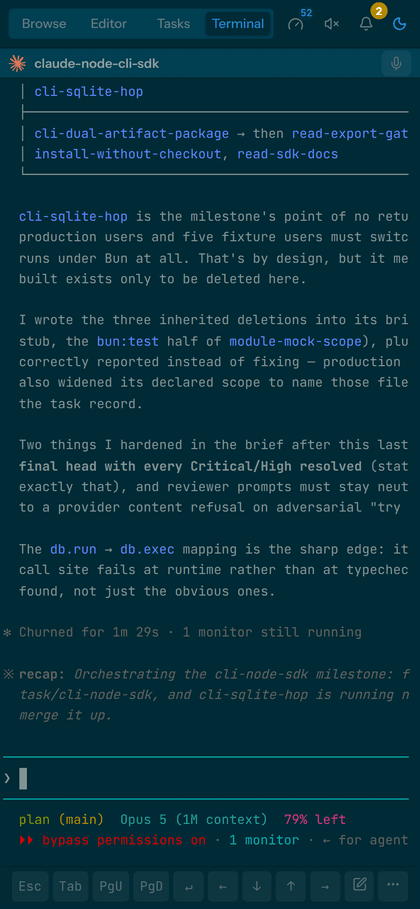
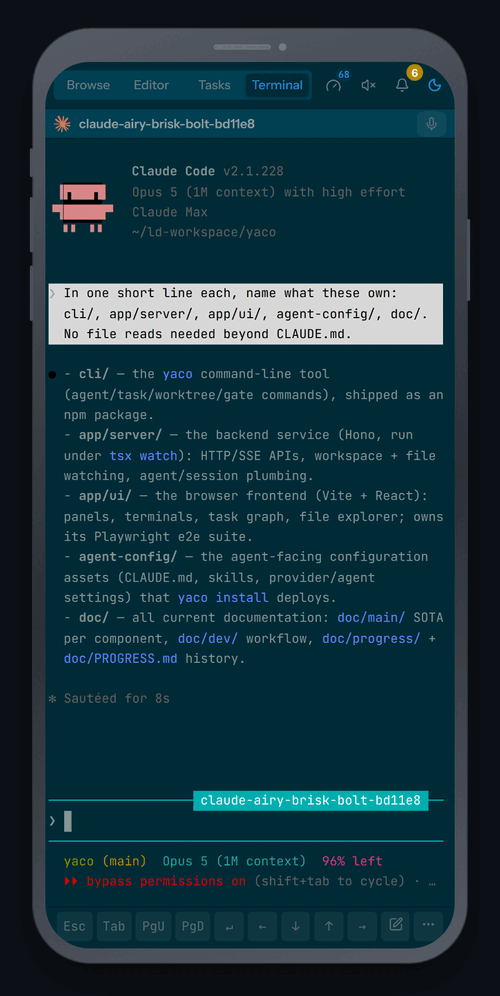
docs(assets): put the phone screenshots in a device frame
A bare 390px capture read as another cropped desktop panel beside the
notification panel. Both variants now render inside a CSS bezel; the dark one
was re-captured because framing exposed truncated terminal lines.

diff --git a/doc/PROGRESS.md b/doc/PROGRESS.md
@@ -478,6 +478,7 @@
 - Every asset was re-captured in the light theme and the set renamed to explicit pairs — `doc/assets/<name>-{light,dark}.{png,gif}`, 9 pairs including two walkthrough GIFs. README and `tour.md` select between them with `<picture><source media="(prefers-color-scheme: dark)">` and the light file as the `<img>` fallback.
 - Captions and alt text were rewritten to be true of *both* images in a pair — the two sets were captured hours apart, so the session lineage and notification rows differ, and no reader ever sees them side by side.
 - [doc/dev/app/workflow.md](dev/app/workflow.md#refreshing-the-screenshots) now documents how to refresh the set: viewport and scale, the `localStorage['workflow-theme']` seed, the yaco-only/English-only content rules, the media-query caveat, and the compression step.
+- The phone shot now sits in a rendered device frame, and the dark one was re-captured — the old one had terminal lines truncated at the right edge, which only became obvious once framed.
 - Doubling the set doubled the bytes, so everything was recompressed: PNGs quantized to a 256-colour palette in place (still `.png`, so no reference churn) and both GIFs re-encoded with a diff-mode palette at 64 colours. **`doc/assets/` went 9.6 MB → 5.0 MB**, smaller than the single-theme set was before this change.
 
 **Why:**

diff --git a/doc/dev/app/workflow.md b/doc/dev/app/workflow.md
@@ -293,6 +293,8 @@ Vite empties the output directory on every build, watch rebuilds included, so si
 
 Two content rules the captures have to satisfy, both easiest to enforce in-page before the shot: **only this repo** (hide other project rows in the sidebar) and **English only** (drop `.notif-row`s from other projects, and check the attached session's transcript — a session that was prompted in another language will show it).
 
+The phone shot gets a **device frame** — a CSS bezel (rounded rect, speaker slit and lens in a thickened top band, side buttons, soft shadow) rendered around the raw capture and screenshotted. Without it a 390px-wide screenshot reads as just another cropped desktop panel next to the others. The frame's page background is the GitHub canvas that variant is served on (`#ffffff` light, `#0d1117` dark) rather than transparency, since the palette-quantized PNGs below only carry 1-bit alpha and would show jagged corners.
+
 Compress before committing — the set is committed twice over, so it earns it. PNGs are quantized in place to a 256-colour palette (`magick in.png -colors 256 PNG8:out.png`), which keeps the `.png` extension and therefore every existing reference; GIFs are re-encoded from the recording with a **diff-mode palette**, which is what makes a mostly-static screencast compress:
 
 ```bash
